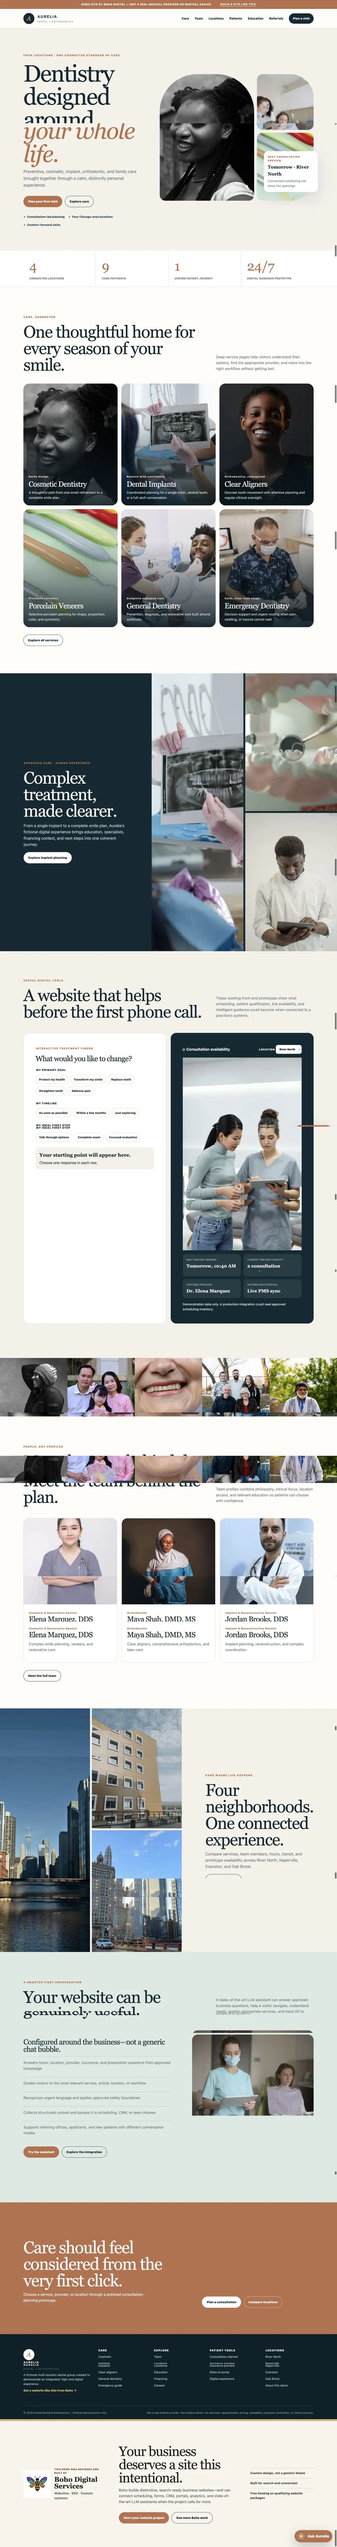
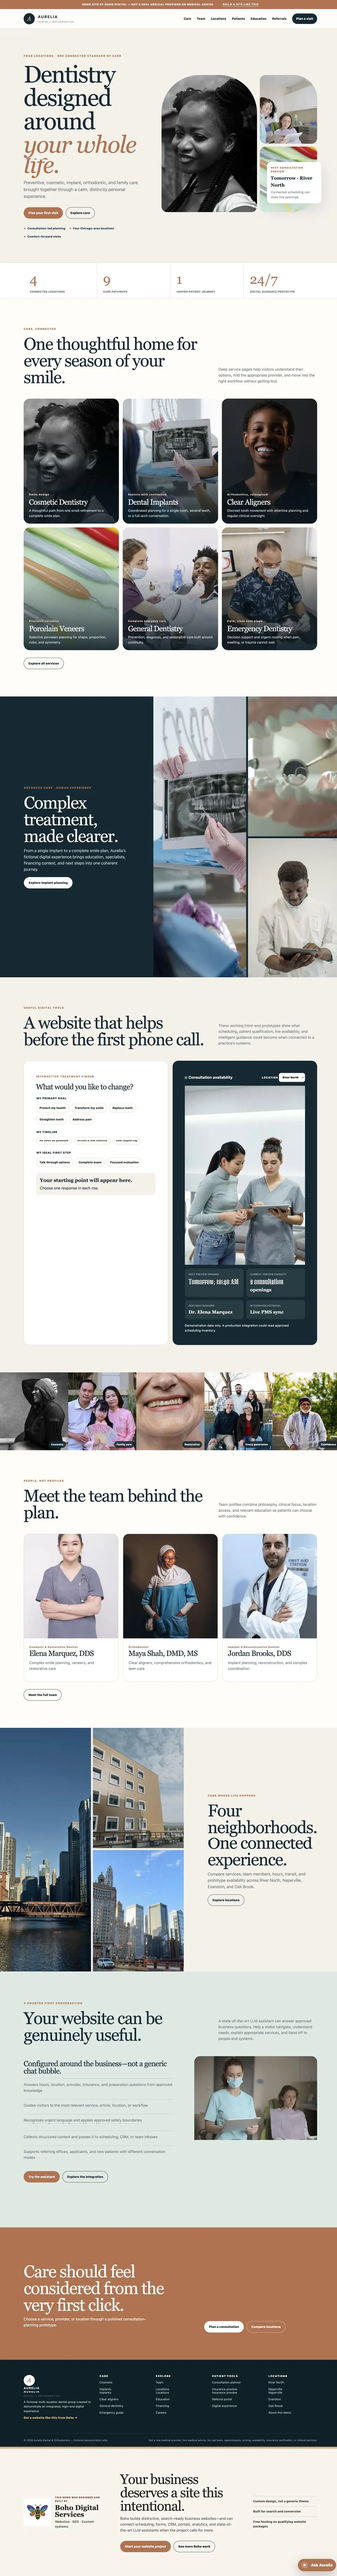
fix(work): clarify notes and repair preview layouts
Visually separate Boho commentary from the demo website preview, rebuild every full-homepage capture from a stabilized lazy-load pass, and give the public GitHub tool cards proper responsive grid spans and image sizing.

diff --git a/app/content/demoLibrary.ts b/app/content/demoLibrary.ts
@@ -23,7 +23,7 @@ export const demoProjects: readonly DemoProject[] = [
     tierLabel: "$850 brochure site",
     href: "https://junkremoval.demos.bohodigitalservices.com/",
     image: "/demos/junk-removal-homepage.webp",
-    imageHeight: 4207,
+    imageHeight: 4255,
     alt: "Full homepage preview of Boho's junk removal website demo.",
     summary: "A direct, high-energy local-service site built to explain the offer, establish service-area fit, and turn a visitor into a quote request.",
     features: ["Service and pricing clarity", "Local trust signals", "Quote-focused customer path"],
@@ -36,7 +36,7 @@ export const demoProjects: readonly DemoProject[] = [
     tierLabel: "$850 brochure site",
     href: "https://cafe.demos.bohodigitalservices.com/",
     image: "/demos/cafe-homepage.webp",
-    imageHeight: 3023,
+    imageHeight: 3057,
     alt: "Full homepage preview of the Juniper and Finch boutique café website demo.",
     summary: "A warm neighborhood café site with a useful menu, location details, social paths, photography, and a clear reason to visit.",
     features: ["Menu and location", "Social and hashtag promotion", "Atmosphere-led design"],
@@ -49,7 +49,7 @@ export const demoProjects: readonly DemoProject[] = [
     tierLabel: "$850 brochure site",
     href: "https://salon.demos.bohodigitalservices.com/",
     image: "/demos/salon-homepage.webp",
-    imageHeight: 3625,
+    imageHeight: 3666,
     alt: "Full homepage preview of the Honey and Ash salon website demo.",
     summary: "A personality-rich salon site that organizes services, pricing, team context, visual proof, and booking calls to action without feeling generic.",
     features: ["Service menu", "Team presentation", "Booking-ready calls to action"],
@@ -62,7 +62,7 @@ export const demoProjects: readonly DemoProject[] = [
     tierLabel: "$850 brochure site",
     href: "https://grooming.demos.bohodigitalservices.com/",
     image: "/demos/pet-grooming-homepage.webp",
-    imageHeight: 3351,
+    imageHeight: 3388,
     alt: "Full homepage preview of the Fuzz and Fern pet grooming website demo.",
     summary: "A playful but practical service site with grooming packages, policies, team introductions, customer preparation, and strong mobile navigation.",
     features: ["Packages and policies", "Friendly local branding", "Mobile-first inquiries"],
@@ -75,7 +75,7 @@ export const demoProjects: readonly DemoProject[] = [
     tierLabel: "$850 brochure site",
     href: "https://detailing.demos.bohodigitalservices.com/",
     image: "/demos/auto-detailing-homepage.webp",
-    imageHeight: 3745,
+    imageHeight: 3787,
     alt: "Full homepage preview of the Chrome and Clover mobile auto detailing website demo.",
     summary: "A sharp mobile-detailing site that separates packages, residential and fleet needs, coverage information, and the path to a booking request.",
     features: ["Service packages", "Mobile coverage", "Residential and fleet paths"],
@@ -88,7 +88,7 @@ export const demoProjects: readonly DemoProject[] = [
     tierLabel: "Expanded website",
     href: "https://landscaping.demos.bohodigitalservices.com/",
     image: "/demos/landscaping-homepage.webp",
-    imageHeight: 6396,
+    imageHeight: 6468,
     alt: "Full homepage preview of the Field and Stone expanded landscaping website demo.",
     summary: "A deeper regional website with detailed service paths, project storytelling, commercial and residential audiences, local pages, and educational content.",
     features: ["Service-area architecture", "Project and process depth", "Search-ready local content"],
@@ -101,7 +101,7 @@ export const demoProjects: readonly DemoProject[] = [
     tierLabel: "High-end custom website",
     href: "https://pestcontrol.demos.bohodigitalservices.com/",
     image: "/demos/pest-control-homepage.webp",
-    imageHeight: 5713,
+    imageHeight: 5777,
     alt: "Full homepage preview of the Sentinel Pest and Property high-end website demo.",
     summary: "A multi-location service platform with residential and commercial journeys, scheduling, service-area logic, careers, franchising, education, and a configurable LLM assistant prototype.",
     features: ["Multi-location customer paths", "Scheduling and coverage tools", "LLM assistant and integration concepts"],
@@ -114,7 +114,7 @@ export const demoProjects: readonly DemoProject[] = [
     tierLabel: "High-end custom website",
     href: "https://dentistry.demos.bohodigitalservices.com/",
     image: "/demos/dentistry-homepage.webp",
-    imageHeight: 7247,
+    imageHeight: 7328,
     alt: "Full homepage preview of the Aurelia Dental and Orthodontics high-end website demo.",
     summary: "A premium multi-location healthcare demonstration with deep care pathways, team and location filtering, maps, appointment planning, referrals, careers, education, and responsible assistant concepts.",
     features: ["Team and location discovery", "Referral and scheduling prototypes", "Deep service and education architecture"],

diff --git a/app/commercial-reset.css b/app/commercial-reset.css
@@ -1348,6 +1348,44 @@
   padding: clamp(1.5rem, 3vw, 2.5rem);
 }
 
+.demo-library__notes {
+  position: relative;
+  border-left: 0.45rem solid var(--burnished-gold);
+  background:
+    linear-gradient(160deg, rgba(222, 177, 74, 0.12), transparent 42%),
+    #f8f2e8;
+  box-shadow: inset 1.2rem 0 2.5rem rgba(17, 18, 20, 0.035);
+}
+
+.demo-library__notes-header {
+  display: flex;
+  justify-content: space-between;
+  gap: 0.75rem;
+  align-items: center;
+  margin: clamp(-2.5rem, -3vw, -1.5rem) clamp(-2.5rem, -3vw, -1.5rem) 1.6rem;
+  padding: 0.8rem clamp(1rem, 2vw, 1.35rem);
+  background: var(--graphite);
+  color: var(--warm-ivory);
+  font-family: var(--font-mono);
+  line-height: 1.35;
+  text-transform: uppercase;
+}
+
+.demo-library__notes-header span {
+  color: var(--burnished-gold);
+  font-size: 0.76rem;
+  font-weight: 900;
+  letter-spacing: 0.08em;
+}
+
+.demo-library__notes-header strong {
+  max-width: 13rem;
+  color: rgba(255, 248, 235, 0.72);
+  font-size: 0.62rem;
+  letter-spacing: 0.045em;
+  text-align: right;
+}
+
 .demo-library__card-body .reset-eyebrow {
   color: var(--copper-text);
 }
@@ -1494,6 +1532,32 @@
   line-height: 1.55;
 }
 
+.reset-work-tools .reset-service-card {
+  grid-column: span 4;
+  min-height: 31rem;
+  gap: 1rem;
+}
+
+.reset-work-tools .reset-service-card img {
+  display: block;
+  width: 100%;
+  max-width: none;
+  aspect-ratio: 16 / 10;
+  border: 1px solid var(--line-dark);
+  border-radius: 0.45rem;
+  background: white;
+  object-fit: contain;
+  object-position: center;
+}
+
+.reset-work-tools .reset-service-card h3 {
+  margin-bottom: 0;
+}
+
+.reset-work-tools .reset-service-card > p {
+  margin-bottom: 0;
+}
+
 @media (max-width: 70rem) {
   .demo-library__track {
     grid-auto-columns: min(58rem, calc(100vw - 5rem));
@@ -1501,6 +1565,10 @@
 
   .demo-library__card {
     grid-template-columns: minmax(0, 1.12fr) minmax(17rem, 0.88fr);
+  }
+
+  .reset-work-tools .reset-service-card {
+    grid-column: span 6;
   }
 }
 
@@ -1545,6 +1613,11 @@
     min-height: 0;
   }
 
+  .demo-library__notes {
+    border-top: 0.45rem solid var(--burnished-gold);
+    border-left: 0;
+  }
+
   .demo-library__preview {
     height: 34rem;
     min-height: 0;
@@ -1566,11 +1639,20 @@
   .demo-library__levels span {
     margin-bottom: 1rem;
   }
+
+  .reset-work-tools .reset-service-card {
+    grid-column: auto;
+    min-height: 0;
+  }
 }
 
 @media (max-width: 42rem) {
   .demo-library__card-body {
     padding: 1.25rem;
+  }
+
+  .demo-library__notes-header {
+    margin: -1.25rem -1.25rem 1.35rem;
   }
 
   .demo-library__actions a {

diff --git a/app/components/DemoLibrary.tsx b/app/components/DemoLibrary.tsx
@@ -130,7 +130,11 @@ export function DemoLibrary() {
               </span>
               <span className="demo-library__preview-label">Full homepage preview · scroll to explore</span>
             </a>
-            <div className="demo-library__card-body">
+            <aside className="demo-library__card-body demo-library__notes" aria-label={`Boho's notes about ${demo.name}`}>
+              <div className="demo-library__notes-header">
+                <span>Boho&apos;s notes</span>
+                <strong>Separate from the demo website</strong>
+              </div>
               <div>
                 <p className="demo-library__slide-label">Demo {String(index + 1).padStart(2, "0")} · {demo.tierLabel}</p>
                 <p className="reset-eyebrow">{demo.businessType}</p>
@@ -149,7 +153,7 @@ export function DemoLibrary() {
                 >Visit the full live demo ↗</a>
                 <Link href="/start/">Start a similar project</Link>
               </div>
-            </div>
+            </aside>
           </article>
         ))}
       </div>
